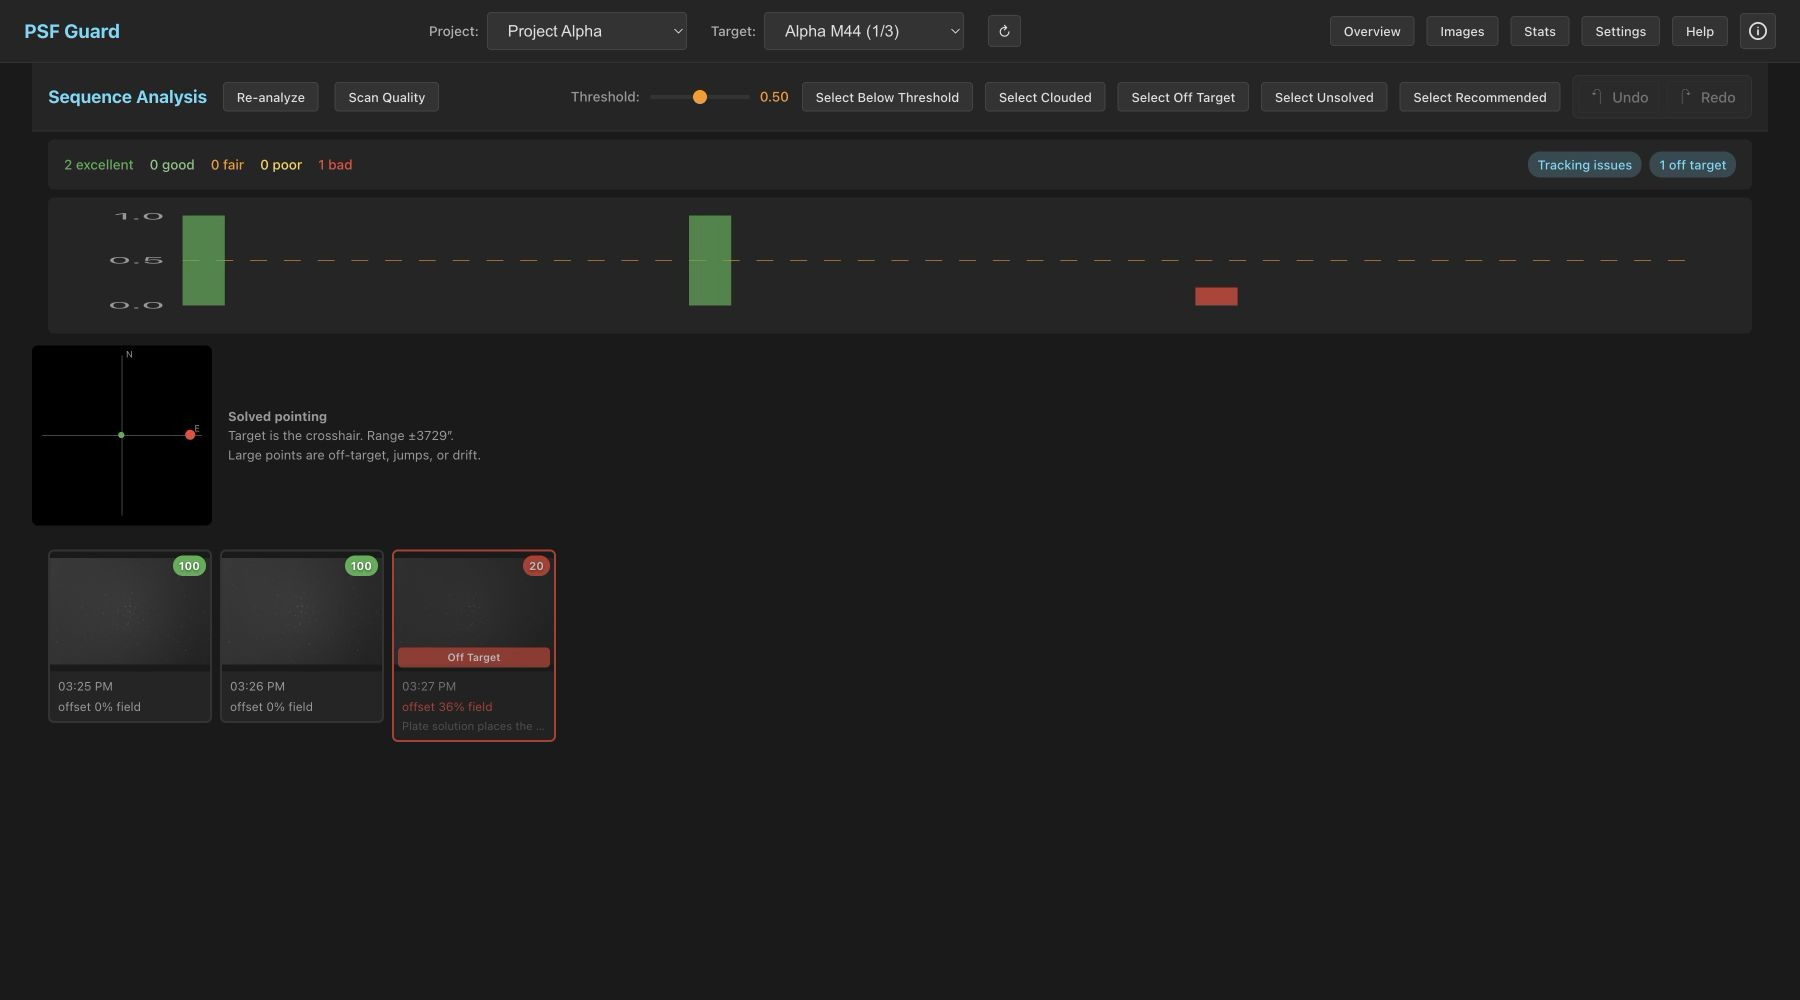
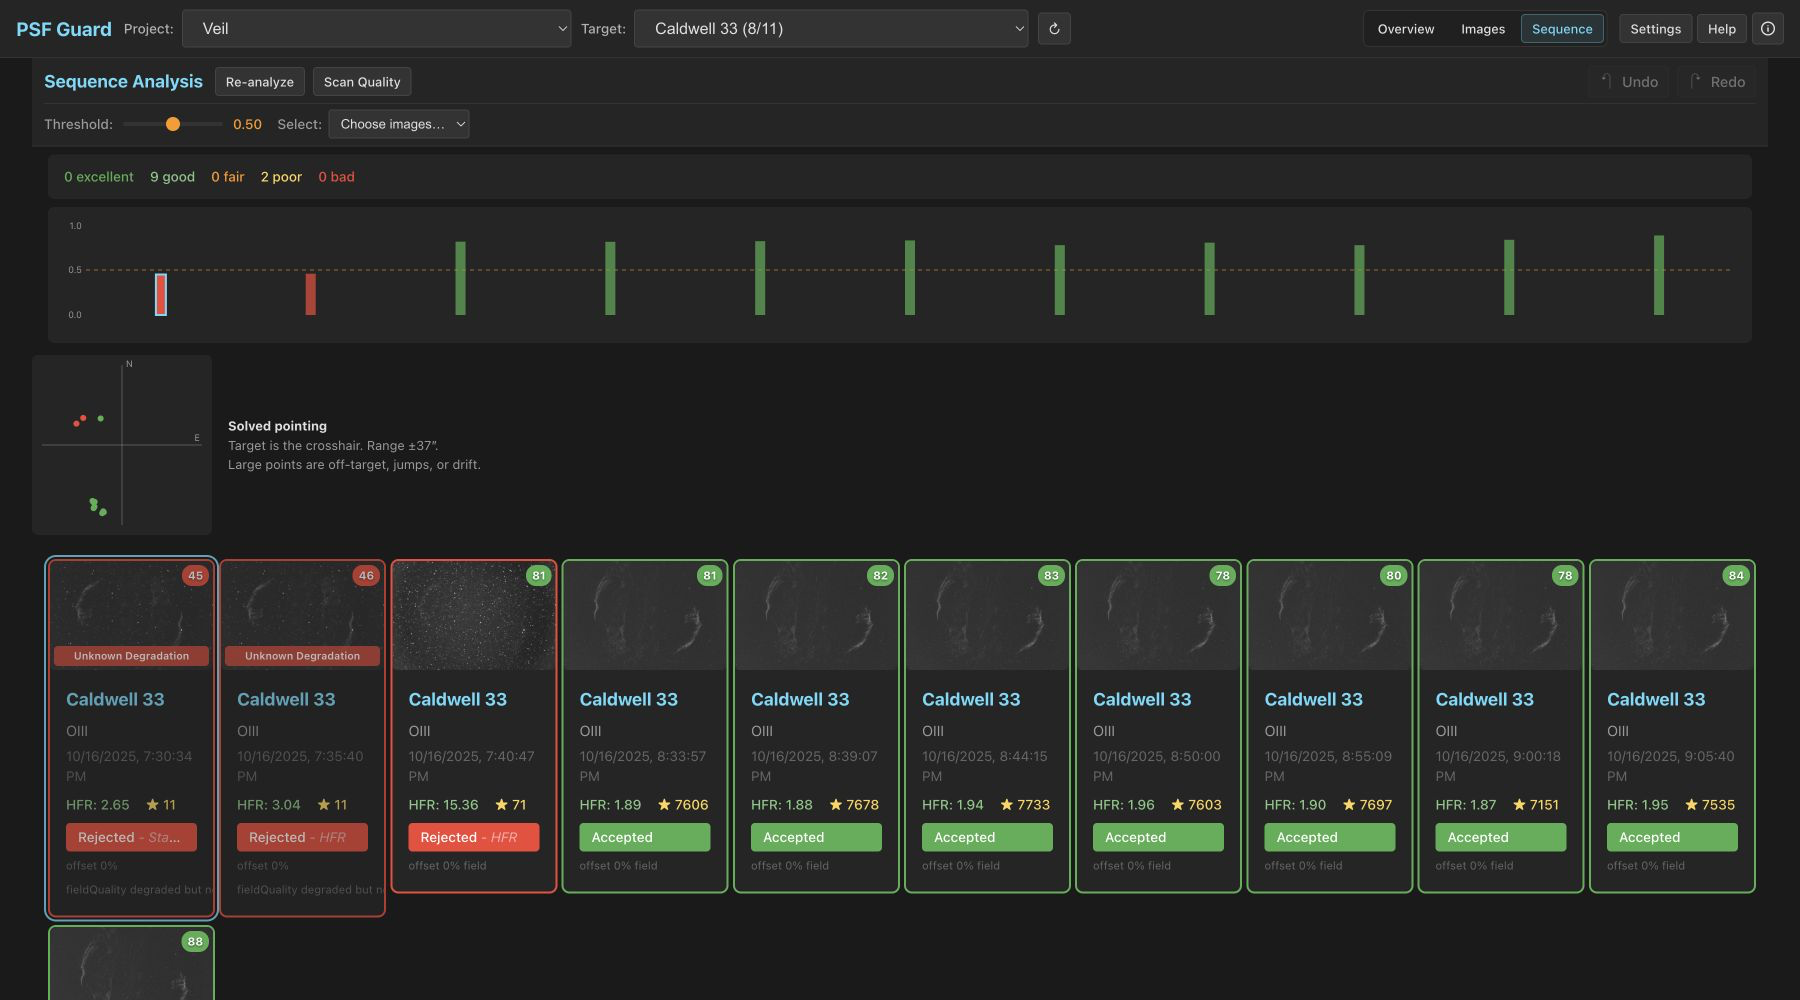
Update astrometry quality screenshot (#10)
* Update astrometry quality screenshot

* Use a genuinely varied quality sequence

diff --git a/docs/astrometry-quality.html b/docs/astrometry-quality.html
@@ -69,9 +69,9 @@
   </p>
 
   <figure>
-    <img src="../assets/sequence-quality-astrometry.png" alt="Sequence quality analysis with solved-center scatter and one off-target frame">
-    <figcaption>The pointing scatter plot, field-relative offsets, and badges make
-    the bad frame visible without replacing the existing image-quality evidence.</figcaption>
+    <img src="../assets/sequence-quality-astrometry.png" alt="Sequence quality analysis with eleven solved frames and two poor outliers">
+    <figcaption>The eleven-frame run sets two poor frames against nine good frames
+    while the solved-center plot keeps the pointing evidence visible.</figcaption>
   </figure>
 
   <h2 id="run">Run a quality scan</h2>

diff --git a/docs/grader.html b/docs/grader.html
@@ -137,7 +137,7 @@
 
   <h2 id="sequence">Sequence view</h2>
   <figure>
-    <img src="../assets/sequence-quality-astrometry.png" alt="Sequence analysis with quality scores, solved-center scatter, and an off-target frame">
+    <img src="../assets/sequence-quality-astrometry.png" alt="Sequence analysis with two poor frames, nine good frames, and solved-center scatter">
     <figcaption>One quality view combines image conditions, PSF/guiding metrics,
     solved-center scatter, and field-relative pointing evidence.</figcaption>
   </figure>

diff --git a/index.html b/index.html
@@ -218,7 +218,7 @@
     </figure>
     <figure>
       <img src="assets/sequence-quality-astrometry.png" alt="Sequence analysis with per-frame quality scores and solved-center scatter" loading="lazy">
-      <figcaption>Sequence view: image-condition scores, solved-center scatter, and off-target/tracking evidence.</figcaption>
+      <figcaption>Sequence view: two poor frames, nine good frames, and solved-center evidence.</figcaption>
     </figure>
     <figure>
       <img src="assets/annotated-stars.jpg" alt="Annotated star detection output" loading="lazy">